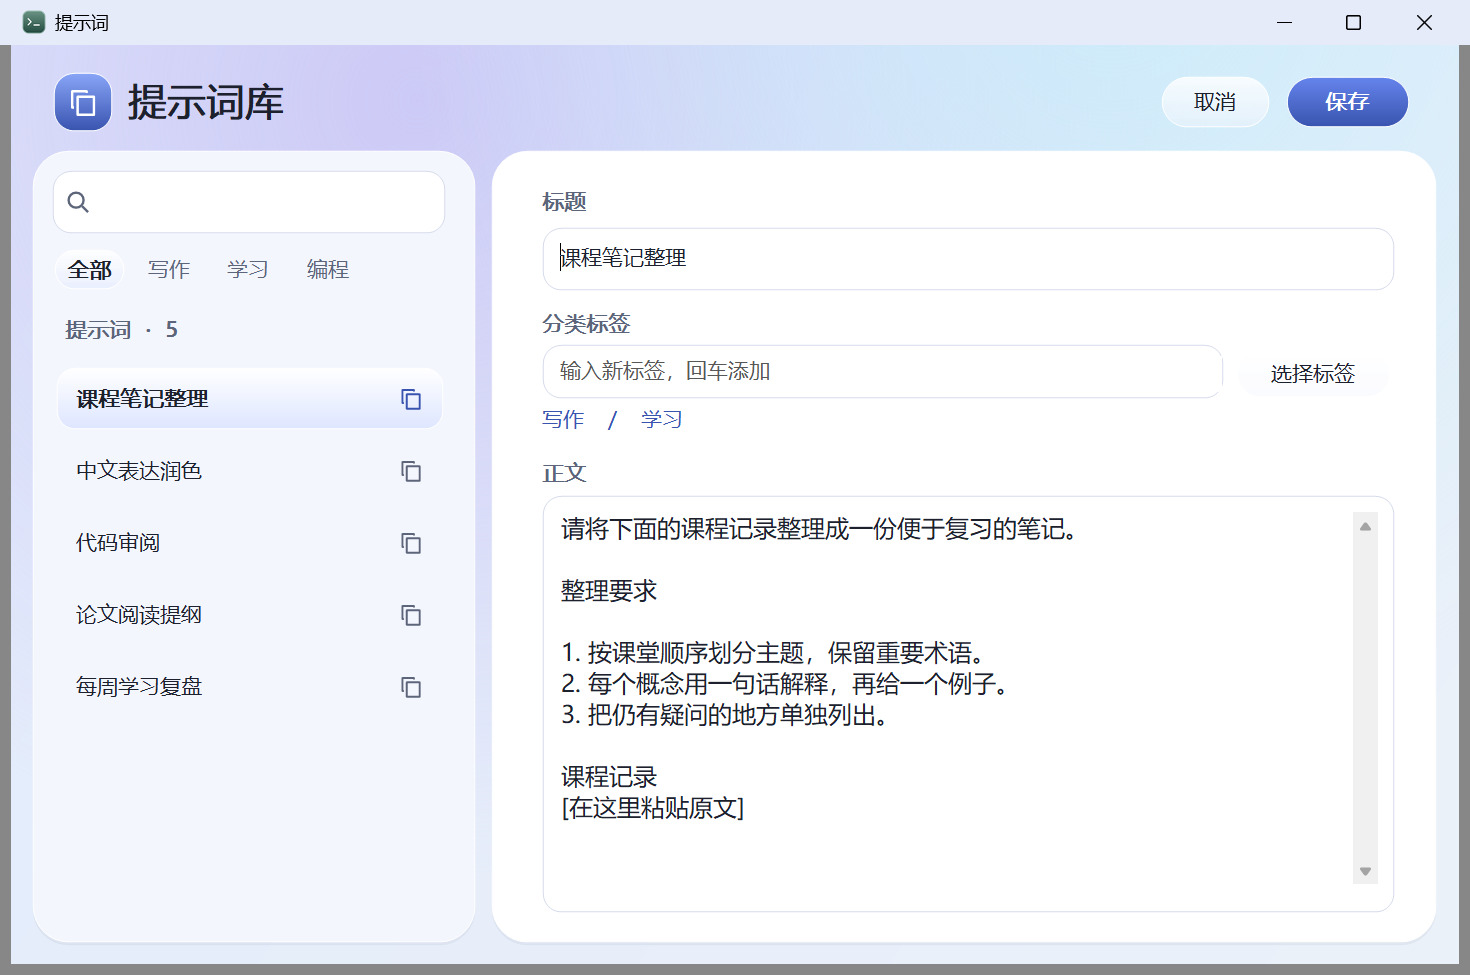
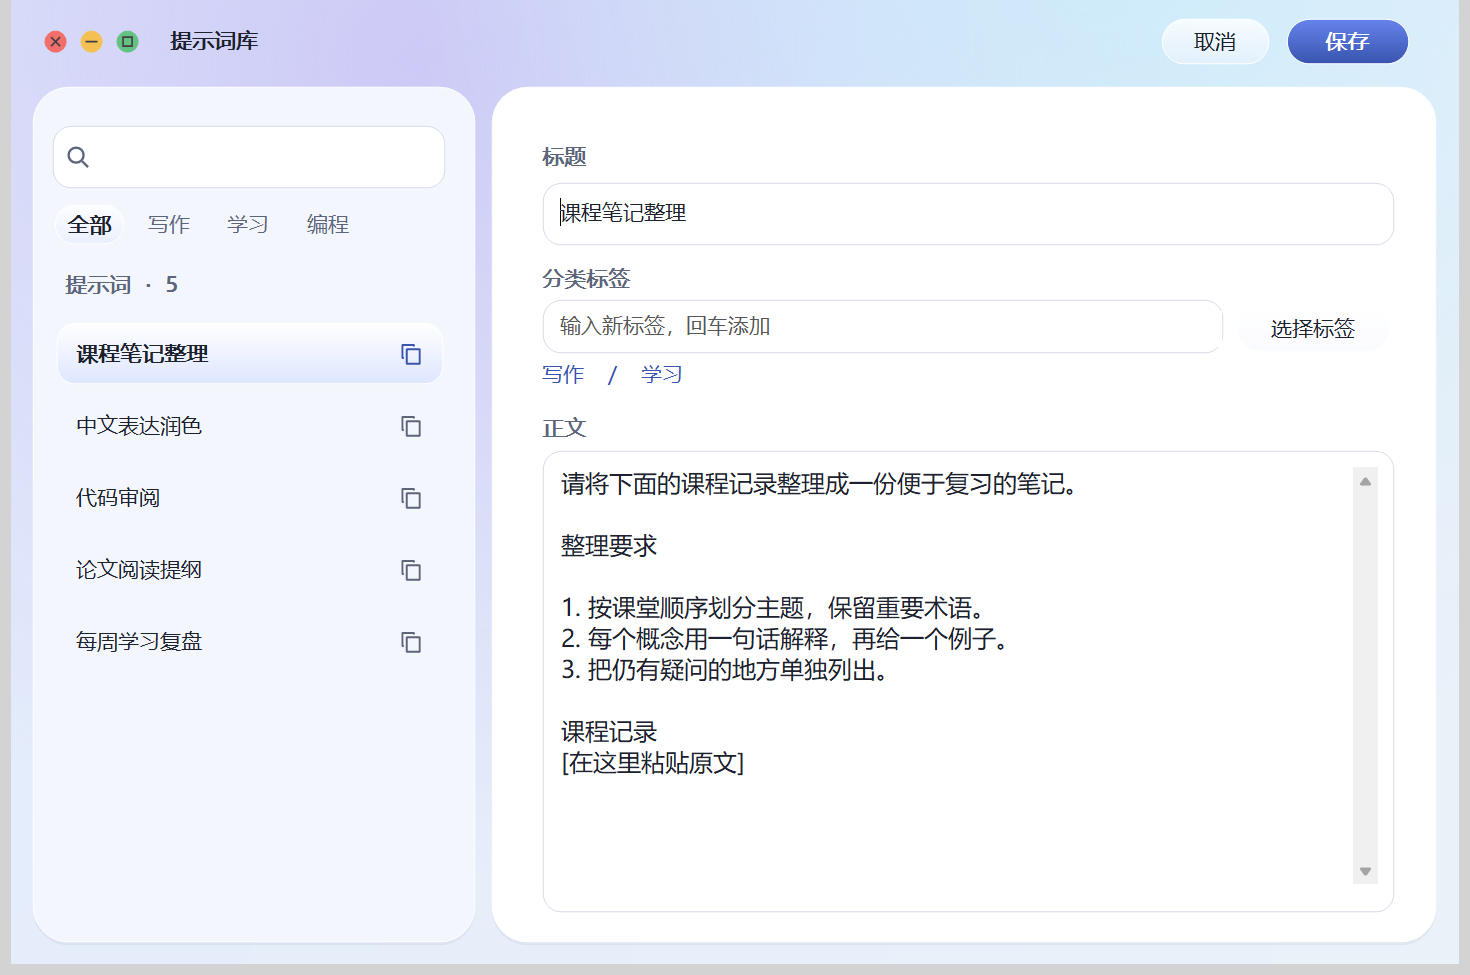
Unify the library title and actions in one compact glass bar

diff --git a/src/ui/LibraryWindow.cpp b/src/ui/LibraryWindow.cpp
@@ -1,6 +1,7 @@
 #include "ui/LibraryWindow.h"
 #include "platform/Clipboard.h"
 #include <dwmapi.h>
+#include <windowsx.h>
 #include <shellscalingapi.h>
 namespace {
 constexpr wchar_t className[] = L"PromptManager.Library";
@@ -50,6 +51,36 @@ LRESULT CALLBACK proc(HWND h, UINT msg, WPARAM w, LPARAM l) {
         return DefWindowProcW(h, msg, w, l);
     try {
         switch (msg) {
+        case WM_NCCALCSIZE: {
+            // Keep the resize frame and maximized work area supplied by Windows.
+            auto client = reinterpret_cast<RECT *>(l);
+            const LONG top = client->top;
+            DefWindowProcW(h, msg, w, l);
+            UINT dpi = GetDpiForWindow(h);
+            int inset = GetSystemMetricsForDpi(SM_CYSIZEFRAME, dpi) +
+                        GetSystemMetricsForDpi(SM_CXPADDEDBORDER, dpi);
+            client->top = top + (IsZoomed(h) ? inset : 0);
+            return 0;
+        }
+        case WM_NCHITTEST: {
+            POINT pt{GET_X_LPARAM(l), GET_Y_LPARAM(l)};
+            ScreenToClient(h, &pt);
+            RECT bounds;
+            GetClientRect(h, &bounds);
+            if (pt.y >= 0 && pt.y < v->px(5) && !IsZoomed(h)) {
+                if (pt.x < v->px(7))
+                    return HTTOPLEFT;
+                if (pt.x >= bounds.right - v->px(7))
+                    return HTTOPRIGHT;
+                return HTTOP;
+            }
+            if (PtInRect(&bounds, pt)) {
+                if (pt.y < v->px(57) && ChildWindowFromPointEx(h, pt, CWP_SKIPINVISIBLE) == h)
+                    return HTCAPTION;
+                return HTCLIENT;
+            }
+            return DefWindowProcW(h, msg, w, l);
+        }
         case WM_CREATE:
             v->create();
             return 0;
@@ -103,6 +134,19 @@ LRESULT CALLBACK proc(HWND h, UINT msg, WPARAM w, LPARAM l) {
             return (LRESULT)(rail ? v->railBrush : v->paperBrush);
         }
         case WM_COMMAND:
+            if (HIWORD(w) == BN_CLICKED) {
+                switch (LOWORD(w)) {
+                case CloseWindowButton:
+                    PostMessageW(h, WM_CLOSE, 0, 0);
+                    return 0;
+                case MinimizeWindowButton:
+                    ShowWindow(h, SW_MINIMIZE);
+                    return 0;
+                case ZoomWindowButton:
+                    ShowWindow(h, IsZoomed(h) ? SW_RESTORE : SW_MAXIMIZE);
+                    return 0;
+                }
+            }
             if (v->ready && !v->loading)
                 v->command(LOWORD(w), HIWORD(w));
             return 0;
@@ -162,6 +206,9 @@ void LibraryWindow::create() {
     auto btn = [&](int id, const wchar_t *s) { return add(id, L"BUTTON", s, BS_OWNERDRAW); };
     add(Search, L"EDIT", L"", ES_AUTOHSCROLL);
     SendMessageW(item(Search), EM_SETCUEBANNER, TRUE, (LPARAM)L"搜索标题或正文");
+    btn(CloseWindowButton, L"关闭");
+    btn(MinimizeWindowButton, L"最小化");
+    btn(ZoomWindowButton, L"最大化");
     btn(FilterAll, L"全部");
     for (int i = 0; i < 4; i++)
         btn(FilterFirst + i, L"");
@@ -257,13 +304,18 @@ void LibraryWindow::layout() {
     SetWindowTextW(item(FilterMore), L"···");
     move(FilterMore, tx, 135, 33, 28, visibleTags < (int)tags.size());
     move(List, 24, 211, split - 48, height - 243, true);
-    move(New, width - 119, 20, 87, 35, !editing);
-    move(Edit, width - 203, 20, 72, 35, !editing && current.has_value());
-    move(More, width - 263, 20, 52, 35, !editing && current.has_value());
-    move(Cancel, width - 199, 20, 73, 35, editing);
-    move(Save, width - 116, 20, 83, 35, editing);
+    move(CloseWindowButton, 17, 11, 24, 32, true);
+    move(MinimizeWindowButton, 41, 11, 24, 32, true);
+    move(ZoomWindowButton, 65, 11, 24, 32, true);
+    SetWindowTextW(item(ZoomWindowButton), IsZoomed(h) ? L"还原" : L"最大化");
+    move(New, width - 119, 11, 87, 32, !editing);
+    move(Edit, width - 203, 11, 72, 32, !editing && current.has_value());
+    move(More, width - 263, 11, 52, 32, !editing && current.has_value());
+    move(Cancel, width - 199, 11, 73, 32, editing);
+    move(Save, width - 116, 11, 83, 32, editing);
     move(Body, x, 196, rw, height - 243, !editing && current.has_value());
-    move(EmptyAction, x + (rw - 168) / 2, (height + 70) / 2 + 34, 168, 36, !editing && !current.has_value());
+    move(EmptyAction, x + (rw - 168) / 2, (height + 70) / 2 + 34, 168, 36,
+         !editing && !current.has_value());
     move(TitleInput, x + 11, 132, rw - 18, 25, editing);
     move(TagInput, x + 11, 207, rw - 126, 24, editing);
     move(TagMenu, width - 149, 202, 104, 33, editing);
@@ -294,10 +346,10 @@ HWND openLibrary(HWND) {
     GetDpiForMonitor(m, MDT_EFFECTIVE_DPI, &dpi, &dy);
     int w = std::min<int>(r.right - r.left, MulDiv(980, dpi, 96)),
         ht = std::min<int>(r.bottom - r.top, MulDiv(650, dpi, 96));
-    auto h =
-        CreateWindowExW(WS_EX_CONTROLPARENT, className, L"提示词", WS_OVERLAPPEDWINDOW | WS_CLIPCHILDREN,
-                        r.left + (r.right - r.left - w) / 2, r.top + (r.bottom - r.top - ht) / 2, w, ht,
-                        nullptr, nullptr, wc.hInstance, active.get());
+    auto h = CreateWindowExW(WS_EX_CONTROLPARENT, className, L"提示词库",
+                             WS_OVERLAPPEDWINDOW | WS_CLIPCHILDREN, r.left + (r.right - r.left - w) / 2,
+                             r.top + (r.bottom - r.top - ht) / 2, w, ht, nullptr, nullptr, wc.hInstance,
+                             active.get());
     if (!h) {
         active.reset();
         throw std::runtime_error("无法打开管理窗口。");

diff --git a/src/ui/LibraryPaint.cpp b/src/ui/LibraryPaint.cpp
@@ -86,16 +86,12 @@ void LibraryWindow::paint() {
         }
         rounded(dc, r, px(23), color, colors.contrast ? colors.line : RGB(255, 255, 255));
     };
-    panel(rect(14, 70, split - 23, height - 85), colors.rail);
-    panel(rect(split + 2, 70, width - split - 17, height - 85), colors.paper);
+    panel(rect(14, 57, split - 23, height - 72), colors.rail);
+    panel(rect(split + 2, 57, width - split - 17, height - 72), colors.paper);
     auto frame = [&](int x, int y, int w, int ht) {
         rounded(dc, rect(x, y, w, ht), px(12), colors.paper, colors.line);
     };
-    auto logo = rect(28, 18, 39, 39);
-    surface(dc, logo, px(13), tone(colors.contrast ? colors.accent : RGB(137, 165, 248)),
-            tone(colors.accent), tone(colors.paper));
-    copyGlyph(dc, logo, px(19), colors.reverse);
-    label(dc, L"提示词库", rect(78, 15, 150, 43), fonts[2], colors.ink);
+    label(dc, L"提示词库", rect(106, 10, 110, 34), fonts[1], colors.ink);
     frame(27, 83, split - 56, 42);
     {
         Gdiplus::Graphics g(dc);
@@ -211,6 +207,30 @@ bool LibraryWindow::draw(const DRAWITEMSTRUCT &d) {
         GetClientRect(h, &bounds);
         paintBackdrop(dc, bounds);
         RestoreDC(dc, state);
+    }
+    if (id == CloseWindowButton || id == MinimizeWindowButton || id == ZoomWindowButton) {
+        using namespace Gdiplus;
+        Graphics g(dc);
+        g.SetSmoothingMode(SmoothingModeAntiAlias);
+        g.ScaleTransform(dpi / 96.f, dpi / 96.f);
+        COLORREF color = id == CloseWindowButton      ? RGB(241, 110, 106)
+                         : id == MinimizeWindowButton ? RGB(245, 192, 82)
+                                                      : RGB(99, 193, 129);
+        SolidBrush brush(tone(colors.contrast ? colors.paper : color));
+        Pen rim(tone(colors.contrast ? colors.ink : color), 1.f);
+        g.FillEllipse(&brush, 5, 9, 14, 14);
+        g.DrawEllipse(&rim, 5, 9, 14, 14);
+        Pen ink(tone(colors.contrast ? colors.ink : RGB(65, 62, 65)), 1.15f);
+        if (id == CloseWindowButton) {
+            g.DrawLine(&ink, 9, 13, 15, 19);
+            g.DrawLine(&ink, 15, 13, 9, 19);
+        } else if (id == MinimizeWindowButton)
+            g.DrawLine(&ink, 8, 16, 16, 16);
+        else
+            g.DrawRectangle(&ink, 9, 13, 6, 6);
+        if (d.itemState & ODS_FOCUS)
+            DrawFocusRect(dc, &r);
+        return true;
     }
     InflateRect(&r, -1, -1);
     bool pressed = (d.itemState & ODS_SELECTED) != 0;

diff --git a/tests/ui_regression.py b/tests/ui_regression.py
@@ -73,6 +73,21 @@ def automation(exe,case):
                 u.PostMessageW(tag,0x100,27,0);time.sleep(.08);assert u.IsWindow(w) and not byprefix(p.pid,"#32770")
                 u.SendMessageW(tag,0x10E,0,0);text(ctrl(111),"已保存");cmd(114)
             elif case=="flow":
+                # The unified title bar must let native buttons receive pointer input.
+                import win32gui
+                def hit(point):
+                    x,y=point
+                    return u.SendMessageW(w,0x84,0,((y & 65535)<<16)|(x & 65535))
+                left,top,right,bottom=win32gui.GetWindowRect(ctrl(120))
+                assert hit(((left+right)//2,(top+bottom)//2))==1
+                width=win32gui.GetClientRect(w)[2]
+                assert hit(win32gui.ClientToScreen(w,(width//2,(bottom-top)//2)))==2
+                u.SendMessageW(ctrl(120),0xF5,0,0);assert u.IsZoomed(w)
+                u.SendMessageW(ctrl(120),0xF5,0,0);assert not u.IsZoomed(w)
+                u.SendMessageW(ctrl(119),0xF5,0,0);assert u.IsIconic(w)
+                u.ShowWindow(w,9)
+                u.SendMessageW(ctrl(118),0xF5,0,0);until(lambda:not u.IsWindow(w))
+                w=open_view()
                 cmd(130);text(ctrl(101),"无匹配");assert u.SendMessageW(ctrl(102),0x18b,0,0)==0 and not read(ctrl(106))
                 cmd(109);text(ctrl(101),"保留术语");assert read(ctrl(106))==body
                 cmd(104);text(ctrl(112),"写作");cmd(114)

diff --git a/src/ui/LibraryWindow.h b/src/ui/LibraryWindow.h
@@ -23,6 +23,9 @@ enum Control {
     Cancel,
     DeleteEntry,
     CopyEntry,
+    CloseWindowButton,
+    MinimizeWindowButton,
+    ZoomWindowButton,
     FilterFirst = 130
 };
 struct LibraryWindow {
